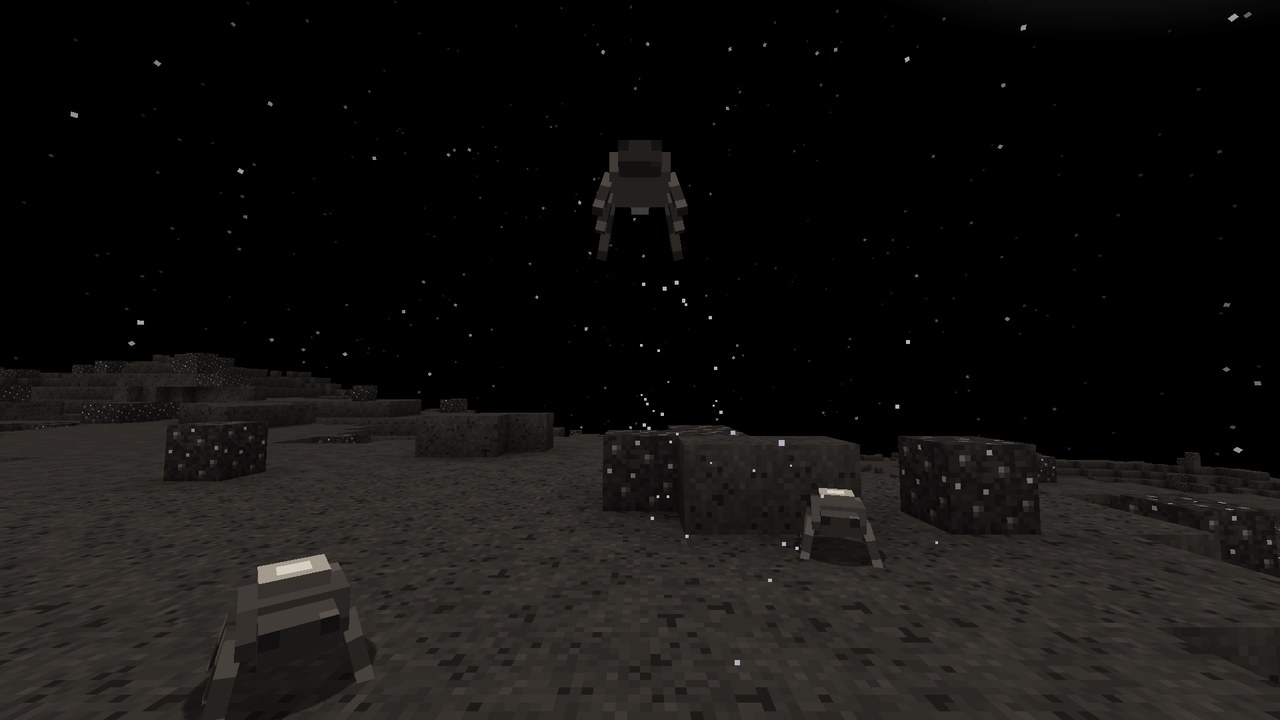
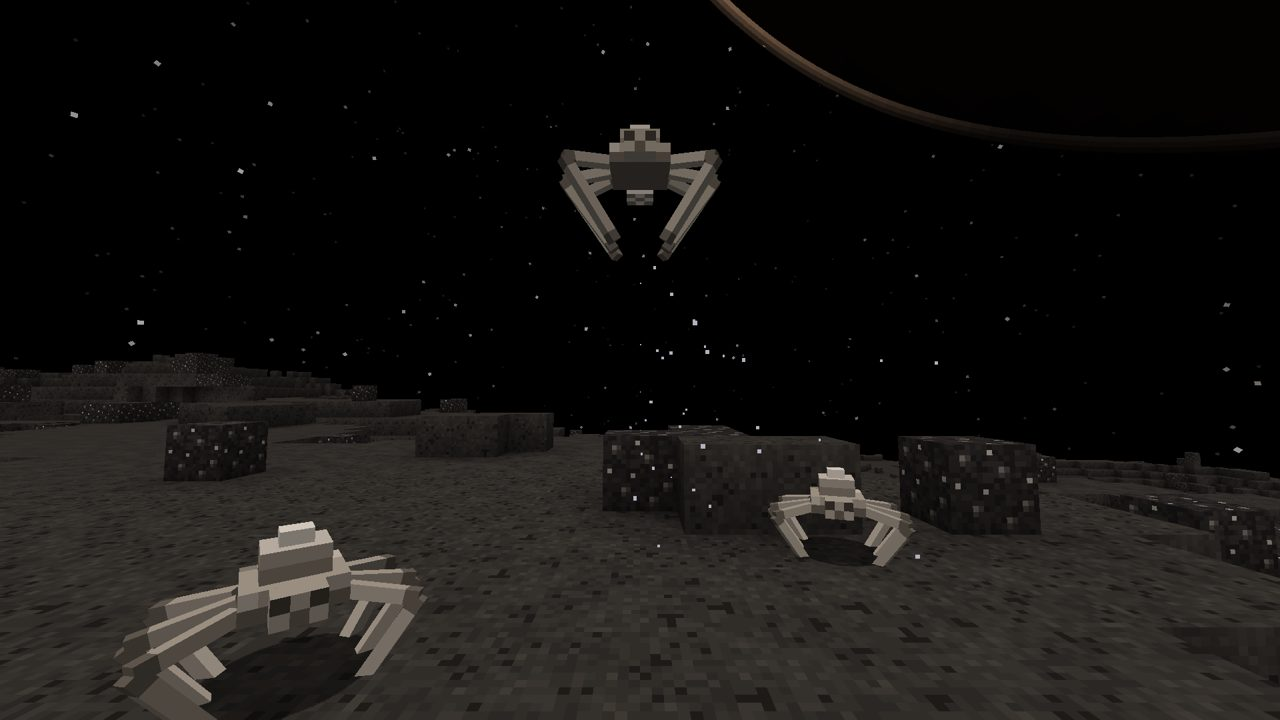
Tether Spinner: a light, high-kneed spinner instead of a dark spider
A light grey-brown domed body that stands out on Phobos' dark dust, three pairs of long jointed legs with high knees that draw in under it in the air, a small head and a big pale spinneret wound with its line. Hitbox widened to match.

diff --git a/src/main/java/com/pizzaparker07/spacebreaker/client/mars/TetherSpinnerModel.java b/src/main/java/com/pizzaparker07/spacebreaker/client/mars/TetherSpinnerModel.java
@@ -13,16 +13,17 @@ import net.minecraft.client.model.geom.builders.PartDefinition;
 import net.minecraft.util.Mth;
 
 /**
- * Tether Spinner: a low round body with a pale back plate, a small blunt head, a pale spinneret at the tail, two
- * short front pairs of legs and a long hind pair for hopping. In the air all legs fold in under the body.
- * UVs: tools/textures/modules/mars_moons.py.
+ * Tether Spinner: a light, domed body built for a world with almost no weight, three pairs of long jointed legs with
+ * high knees, a small head with two dark eyes and, at the back, a big pale spinneret with the coil of its tether line.
+ * In the air the legs draw in under the body. UVs: tools/textures/modules/mars_moons.py.
  */
 public class TetherSpinnerModel extends HierarchicalModel<TetherSpinner> {
     public static final ModelLayerLocation LAYER = new ModelLayerLocation(Spacebreaker.id("tether_spinner"), "main");
-    /** Leg spread on the ground (radians down from horizontal) and when tucked in the air. */
-    private static final float SPREAD = 0.93F;
-    private static final float HIND = 0.6F;
-    private static final float TUCK = 1.35F;
+    /** Upper leg angle up from horizontal on the ground, and drawn in when in the air. */
+    private static final float KNEE = 0.75F;
+    private static final float TUCK = -0.2F;
+    /** Lower leg angle relative to the upper one (down to the ground). */
+    private static final float SHIN = 2.0F;
     private final ModelPart root;
     private final ModelPart head;
     private final ModelPart[] left = new ModelPart[3];
@@ -40,21 +41,24 @@ public class TetherSpinnerModel extends HierarchicalModel<TetherSpinner> {
     public static LayerDefinition createLayer() {
         MeshDefinition mesh = new MeshDefinition();
         PartDefinition root = mesh.getRoot();
-        root.addOrReplaceChild("body", CubeListBuilder.create().texOffs(0, 0).addBox(-3F, -3F, -3F, 6F, 3F, 6F), PartPose.offset(0F, 21F, 0F));
-        root.addOrReplaceChild("plate", CubeListBuilder.create().texOffs(0, 16).addBox(-2F, -1F, -2F, 4F, 1F, 4F), PartPose.offset(0F, 18F, 0.5F));
-        root.addOrReplaceChild("head", CubeListBuilder.create().texOffs(26, 0).addBox(-2F, -2F, -3F, 4F, 2F, 3F), PartPose.offset(0F, 20.5F, -3F));
-        root.addOrReplaceChild("spinneret", CubeListBuilder.create().texOffs(40, 0).addBox(-1F, -1F, 0F, 2F, 2F, 2F), PartPose.offset(0F, 20F, 3F));
-        float[] z = {-2F, 0F, 2.2F};
+        // the dome: a broad base, a narrower middle and a cap
+        root.addOrReplaceChild("body", CubeListBuilder.create().texOffs(0, 0).addBox(-3F, -2F, -3F, 6F, 2F, 6F), PartPose.offset(0F, 19F, 0F));
+        root.addOrReplaceChild("plate", CubeListBuilder.create().texOffs(0, 16).addBox(-2F, -2F, -2F, 4F, 2F, 4F), PartPose.offset(0F, 17F, 0F));
+        root.addOrReplaceChild("cap", CubeListBuilder.create().texOffs(18, 16).addBox(-1F, -1F, -1F, 2F, 1F, 2F), PartPose.offset(0F, 15F, 0F));
+        root.addOrReplaceChild("head", CubeListBuilder.create().texOffs(26, 0).addBox(-1.5F, -1.5F, -2F, 3F, 2F, 2F), PartPose.offset(0F, 18.5F, -3F));
+        // the spinneret: a pale bulb at the back with the coiled line
+        root.addOrReplaceChild("spinneret", CubeListBuilder.create().texOffs(40, 0).addBox(-1.5F, -1.5F, 0F, 3F, 3F, 3F), PartPose.offset(0F, 18F, 3F));
+        float[] z = {-2F, 0F, 2F};
         for (int i = 0; i < 3; i++) {
-            boolean hind = i == 2;
-            int v = hind ? 26 : 12;
-            float len = hind ? 7F : 5F;
-            float down = hind ? HIND : SPREAD;
-            float yaw = (i - 1) * 0.45F;
-            root.addOrReplaceChild("leg_left_" + i, CubeListBuilder.create().texOffs(0, v).addBox(0F, -0.5F, -0.5F, len, 1F, 1F),
-                    PartPose.offsetAndRotation(3F, 20F, z[i], 0F, -yaw, down));
-            root.addOrReplaceChild("leg_right_" + i, CubeListBuilder.create().texOffs(0, v).mirror().addBox(-len, -0.5F, -0.5F, len, 1F, 1F),
-                    PartPose.offsetAndRotation(-3F, 20F, z[i], 0F, yaw, -down));
+            float yaw = (i - 1) * 0.55F;
+            PartDefinition l = root.addOrReplaceChild("leg_left_" + i, CubeListBuilder.create().texOffs(0, 12).addBox(0F, -0.5F, -0.5F, 5F, 1F, 1F),
+                    PartPose.offsetAndRotation(3F, 18.5F, z[i], 0F, -yaw, -KNEE));
+            l.addOrReplaceChild("shin", CubeListBuilder.create().texOffs(0, 26).addBox(0F, -0.5F, -0.5F, 9F, 1F, 1F),
+                    PartPose.offsetAndRotation(5F, 0F, 0F, 0F, 0F, SHIN));
+            PartDefinition r = root.addOrReplaceChild("leg_right_" + i, CubeListBuilder.create().texOffs(0, 12).mirror().addBox(-5F, -0.5F, -0.5F, 5F, 1F, 1F),
+                    PartPose.offsetAndRotation(-3F, 18.5F, z[i], 0F, yaw, KNEE));
+            r.addOrReplaceChild("shin", CubeListBuilder.create().texOffs(0, 26).mirror().addBox(-9F, -0.5F, -0.5F, 9F, 1F, 1F),
+                    PartPose.offsetAndRotation(-5F, 0F, 0F, 0F, 0F, -SHIN));
         }
         return LayerDefinition.create(mesh, 64, 32);
     }
@@ -70,12 +74,11 @@ public class TetherSpinnerModel extends HierarchicalModel<TetherSpinner> {
         head.xRot = headPitch * Mth.DEG_TO_RAD * 0.3F;
         boolean air = !spinner.onGround();
         for (int i = 0; i < 3; i++) {
-            float base = i == 2 ? HIND : SPREAD;
-            float step = air ? 0F : Mth.sin(limbSwing * 1.4F + i * 2.1F) * 0.35F * limbSwingAmount;
-            // in the air the legs fold steeply in under the body; on the ground they splay and step
-            float down = air ? TUCK : base;
-            left[i].zRot = down + step;
-            right[i].zRot = -down + step;
+            float step = air ? 0F : Mth.sin(limbSwing * 1.4F + i * 2.1F) * 0.3F * limbSwingAmount;
+            // high knees on the ground; in the air the legs draw in under the body
+            float up = air ? TUCK : KNEE;
+            left[i].zRot = -up + step;
+            right[i].zRot = up + step;
         }
     }
 }

diff --git a/tools/textures/modules/mars_moons.py b/tools/textures/modules/mars_moons.py
@@ -176,43 +176,48 @@ def mars_disc(size=256):
 SPINNER = ramp('#1d1a19', '#2f2b29', '#433d39', '#5a524b', '#a59c8e', '#d8d2c4')
 
 
+SPINNER_LIGHT = ramp('#3a332d', '#5e554c', '#7f7468', '#9c9083', '#b8ad9f', '#d3c9bc')
+
+
 def spinner():
-    """Tether Spinner (64x32): low grey body, pale back plate, small head with two dark eyes, pale spinneret, thin
-    banded legs. UVs: TetherSpinnerModel."""
+    """Tether Spinner (64x32): a light grey-brown dome (it stands out on Phobos' near-black dust) with a darker rim, a
+    small head with two dark eyes, a big pale spinneret wound with the coiled line, thin legs with dark knee bands."""
     from modules.moon_creatures import paint, noise_pick
     cv = Canvas(64, 32)
     n = clustered(64, 32, 4401, passes=1)
-    h = SPINNER
+    h = SPINNER_LIGHT
 
     def body(face, x, y, fw, fh):
         if face == 'bottom':
-            return h[3]
+            return h[1]
         if face == 'top':
-            return noise_pick(h, 2, n, x, y)
-        return h[1] if y == fh - 1 else noise_pick(h, 2, n, x + 20, y)
+            return noise_pick(h, 3, n, x, y)
+        return h[1] if y == fh - 1 else noise_pick(h, 3, n, x + 20, y)
 
-    paint(cv, 0, 0, 6, 3, 6, body)
-
-    def plate(face, x, y, fw, fh):
-        if face == 'top':
-            return h[5] if 0 < x < fw - 1 and 0 < y < fh - 1 else h[4]
-        return h[3]
-
-    paint(cv, 0, 16, 4, 1, 4, plate)
+    paint(cv, 0, 0, 6, 2, 6, body)
+    paint(cv, 0, 16, 4, 2, 4, lambda f, x, y, fw, fh: h[4] if f == 'top' else (h[3] if y == 0 else h[2]))
+    paint(cv, 18, 16, 2, 1, 2, lambda f, x, y, fw, fh: h[5])
 
     def head(face, x, y, fw, fh):
         if face == 'front':
-            if y == 0 and x in (0, 3):
+            if y == 0 and x in (0, 2):
                 return h[0]  # eyes
-            if y == 1 and x in (1, 2):
-                return h[1]  # mouthparts
-        return noise_pick(h, 2 if face == 'top' else 1, n, x + 40, y + 6)
+            if y == 1 and x == 1:
+                return h[1]
+        return noise_pick(h, 3, n, x + 40, y + 6)
 
-    paint(cv, 26, 0, 4, 2, 3, head)
-    paint(cv, 40, 0, 2, 2, 2, lambda f, x, y, fw, fh: h[5] if f == 'back' else h[4])
-    leg = lambda f, x, y, fw, fh: h[3] if (x // 2) % 2 == 0 and f in ('top', 'bottom', 'front', 'back') else h[1]
-    paint(cv, 0, 12, 5, 1, 1, leg)
-    paint(cv, 0, 26, 7, 1, 1, leg)
+    paint(cv, 26, 0, 3, 2, 2, head)
+
+    def spinneret(face, x, y, fw, fh):
+        if face == 'back':
+            return h[0] if x == 1 and y == 1 else h[5]  # the nozzle
+        if face in ('left', 'right', 'top', 'bottom'):
+            return h[2] if (x + y) % 2 == 0 else h[5]  # the coiled line wound round it
+        return h[4]
+
+    paint(cv, 40, 0, 3, 3, 3, spinneret)
+    paint(cv, 0, 12, 5, 1, 1, lambda f, x, y, fw, fh: h[1] if x == fw - 1 else h[3])  # upper leg, dark at the knee
+    paint(cv, 0, 26, 9, 1, 1, lambda f, x, y, fw, fh: h[1] if x == 0 or x == fw - 1 else h[3])  # shin
     return cv
 
 

diff --git a/src/main/java/com/pizzaparker07/spacebreaker/content/mars/entity/MarsEntities.java b/src/main/java/com/pizzaparker07/spacebreaker/content/mars/entity/MarsEntities.java
@@ -50,7 +50,7 @@ public final class MarsEntities {
             () -> EntityType.Builder.of(PolarWorm::new, MobCategory.CREATURE).sized(0.7F, 0.5F).eyeHeight(0.35F).clientTrackingRange(8)
                     .build("polar_worm"));
     public static final DeferredHolder<EntityType<?>, EntityType<TetherSpinner>> TETHER_SPINNER = ENTITIES.register("tether_spinner",
-            () -> EntityType.Builder.of(TetherSpinner::new, MobCategory.CREATURE).sized(0.8F, 0.5F).eyeHeight(0.35F).clientTrackingRange(8)
+            () -> EntityType.Builder.of(TetherSpinner::new, MobCategory.CREATURE).sized(1.0F, 0.7F).eyeHeight(0.45F).clientTrackingRange(8)
                     .build("tether_spinner"));
     public static final DeferredHolder<EntityType<?>, EntityType<DustWhirl>> DUST_WHIRL = ENTITIES.register("dust_whirl",
             () -> EntityType.Builder.<DustWhirl>of(DustWhirl::new, MobCategory.MISC).sized(1.2F, 6F).clientTrackingRange(10).updateInterval(4)

diff --git a/docs/CONTENT.md b/docs/CONTENT.md
@@ -177,7 +177,7 @@ Her içerik paketi gerçek istemcide vitrin dünyasında fotoğraflanır; onayda
 | 🎨 | Boyutlar `spacebreaker:phobos`, `spacebreaker:deimos` | çok küçük, havasız; Phobos'ta oluk zincirleri; gökte dev Mars (≈40° / 16°), evresiyle |
 | 🎨 | Stickney krateri | Phobos'un dev krateri sabit yerde (doğuş noktasının ~320 blok doğusu, 230 blok yarıçap, 58 blok derin kase); arazi motoruna `named_craters` (ad, x, enlem, yarıçap, derinlik, tepe) eklendi |
 | 🎨 | Bloklar | Phobos Regoliti, Deimos Regoliti (kalıcı ayak izi), Karbonlu Kondrit |
-| 🎨 | Yaratık: Çapa Örücüsü (Tether Spinner) | Phobos ve Deimos'ta; altı bacaklı, uzun sekmelerle gider; her sekmeden önce zemine ipek ip yapıştırır, ip gerilince geri çekilir (küçük ayda kaçış hızı dersi); havada ip parıltıyla görünür, bacaklar toplanır; ip (string) bırakır; karbonlu kondritle çekilir/üretilir |
+| 🎨 | Yaratık: Çapa Örücüsü (Tether Spinner) | Phobos ve Deimos'ta; açık gri-kahve kubbe gövde (koyu tozdan ayrılır), yüksek dizli, eklemli altı uzun bacak, arkada ipi sarılı iri bir ip memesi; uzun sekmelerle gider; her sekmeden önce zemine ipek ip yapıştırır, ip gerilince geri çekilir (küçük ayda kaçış hızı dersi); havada ip parıltıyla görünür, bacaklar toplanır; ip (string) bırakır; karbonlu kondritle çekilir/üretilir |
 | 🎨 | Zindanlar | Düşmüş Numune Dönüş Sondası (Phobos: çarpma çukuruna burnuyla gömülmüş küçük sekizgen kapsül, altın folyo şerit, kahverengi ısı kalkanı, yerde yatan kapak, kolunda kalan ve kopup savrulan güneş kanatları; numune kasası Malzeme Dolabında), Deimos Buz Deposu (alüminyum panel kaplı mahzen, LED ve kablo kanalı, Malzeme Dolapları, ışıldaklı işaret direği), Stickney'nin Çapalı İniş Aracı (dünyada tek: Stickney tabanında; 7 blok genişliğinde, hafif yatık sekizgen gövde, baskın altın folyo kaplama, dışa açılı dört bacak ve ayak tablaları, güvertede 3 blokluk göğe dönük çanak anten, kuzeyde küçük güneş kanadı; vinç gövdeli 3 harpun, çift halatlı zincirlerle zemine bağlı; veri kaydedici Malzeme Dolabında, "1/2000 g: geri sekti" levhası; güvenlik ipi, mikro-yerçekimi madenciliği / uzay sondası diskleri), Deimos Röle Kulesi (spiral 12 kaya yığını, her biri 2 blok yüksek ve 4+ blok uzak: Dünya'da aşılamaz, Deimos'ta her gerçekçilik ayarında aşılır — test MC zıplama fiziğiyle doğrular; iğne açık renkli alüminyum kafes direğe dönüştü (köşe dikmeleri, 4 blokta bir çapraz, tepede güverte); üstünde 5 blokluk göğe dönük çanak ve kırmızı işaret feneri, folyo kaplı verici, Malzeme Dolabında veri kasası; iğnenin yüzünden inen kablo, dibinde çanaklı ve ışıldaklı küçük yer istasyonu; "1/4000 g" levhası) |
 
 ### Venüs `spacebreaker:venus`
